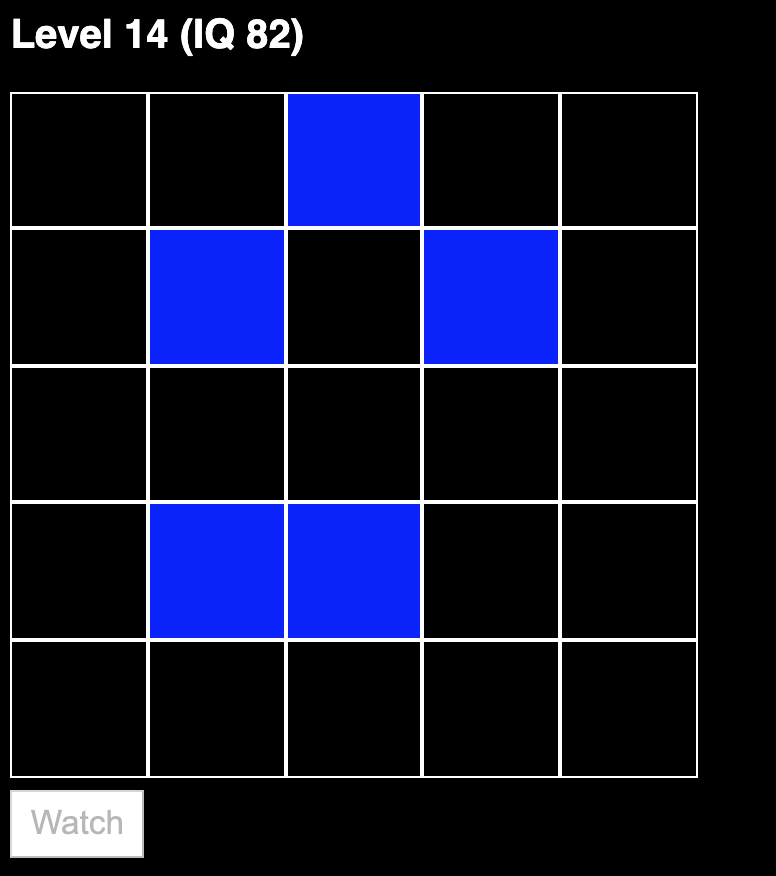
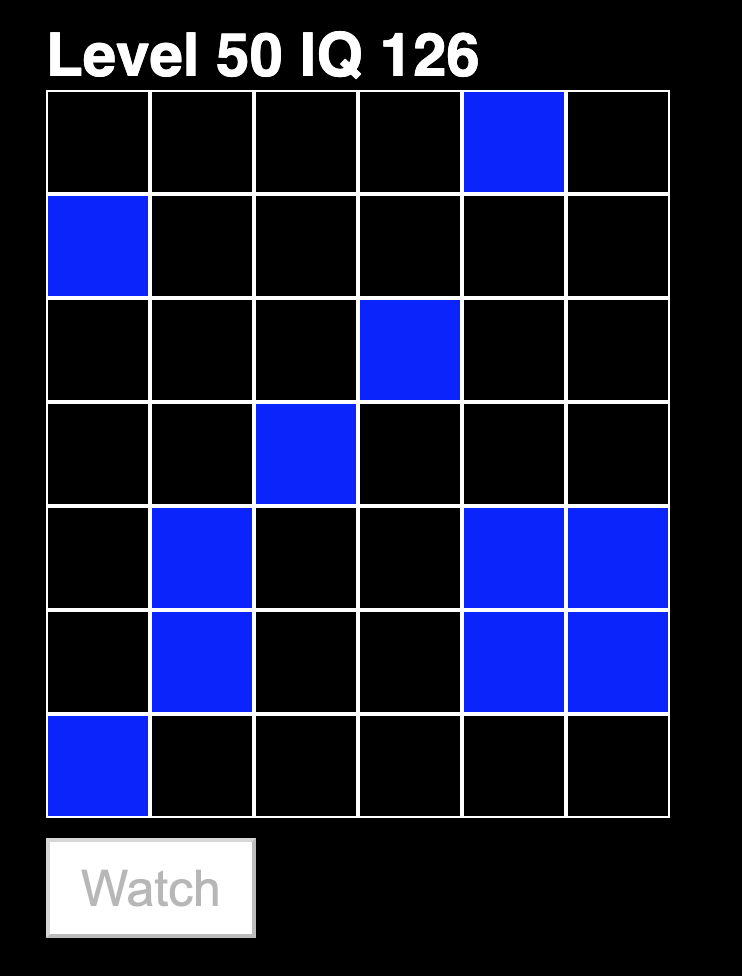
Update game screenshot

diff --git a/iq.js b/iq.js
@@ -6,7 +6,7 @@ var gSizeX;
 var gSizeY;
 var gBoard;
 var gIQ;
-var gLevel = 1;
+var gLevel = 50;
 
 function createBoard() {
     let e = document.getElementById('container');
@@ -101,7 +101,7 @@ function showSolution() {
 }
 function adjustLevel() {
     let minTime = 0.4;
-    let maxTime = 5.5;
+    let maxTime = 50.5;
     let minSizeX = 4;
     let minSizeY = 4;
     let minRate = 0.15;
